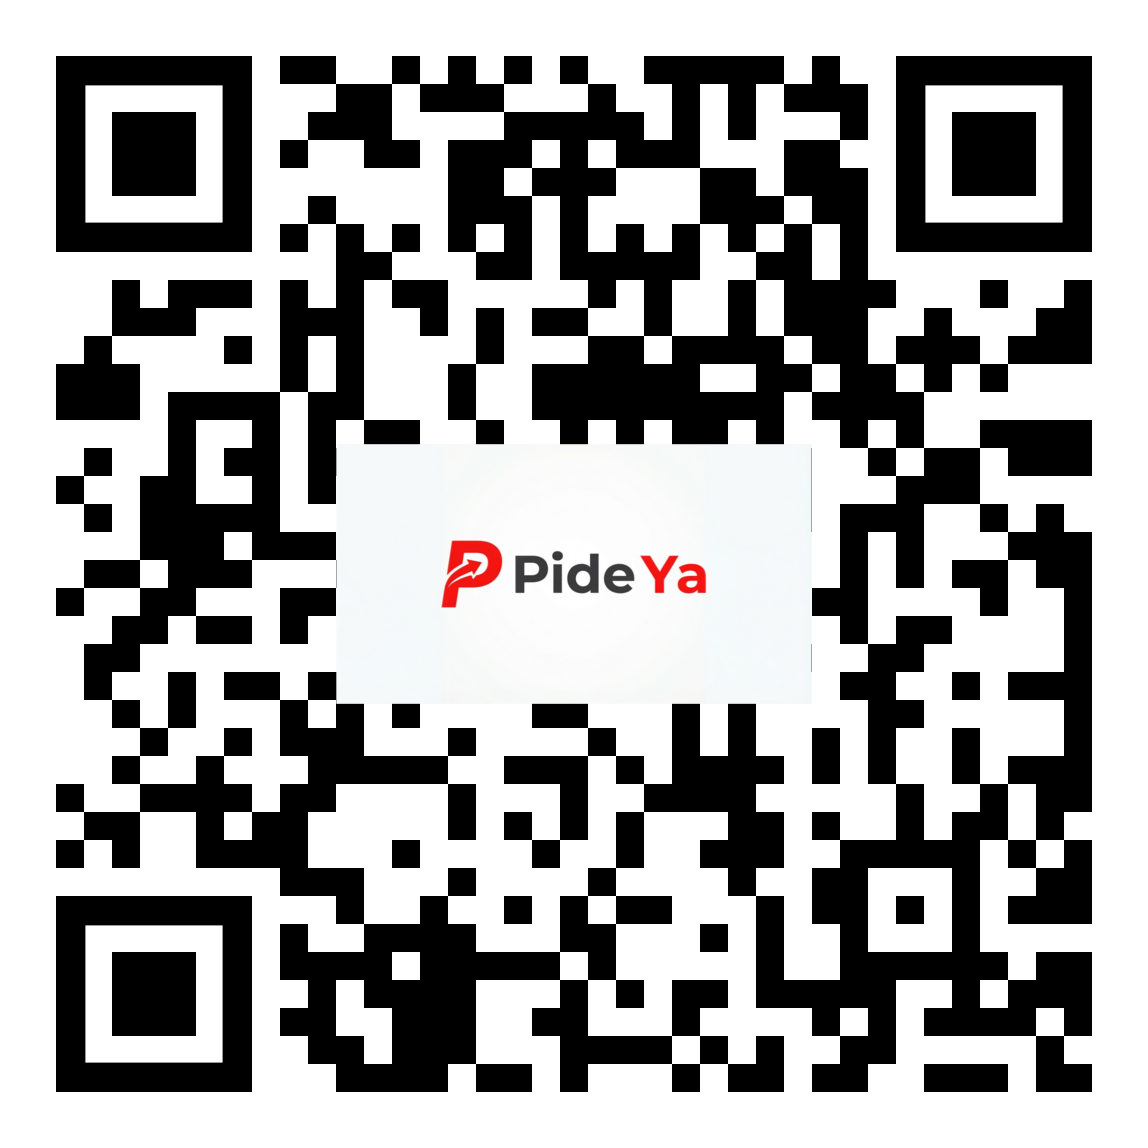
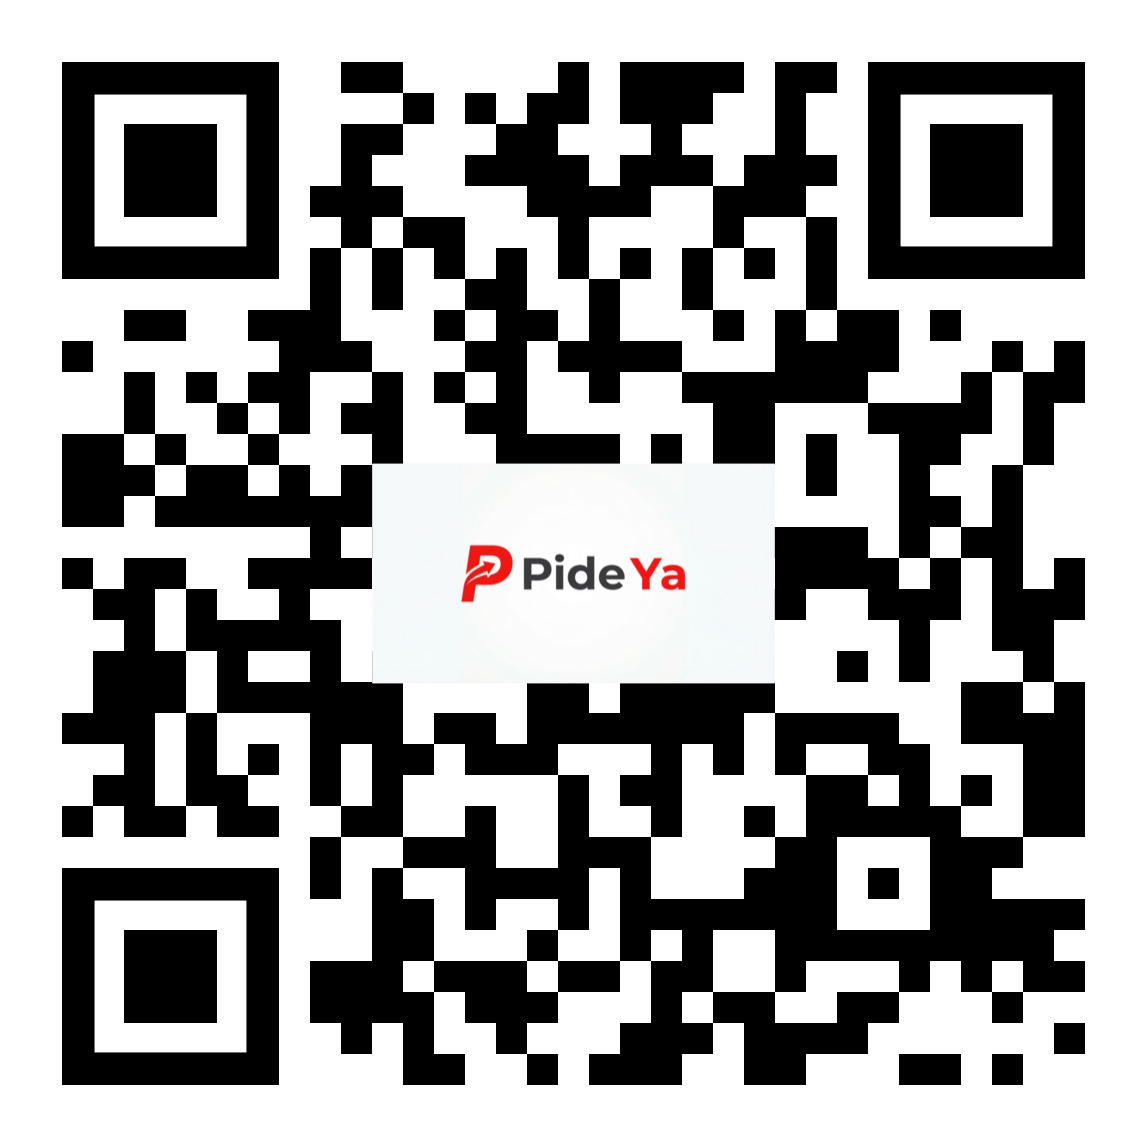
Add files via upload

diff --git a/index.html b/index.html
@@ -6,13 +6,13 @@
     
     <!-- Configuración Avanzada Open Graph (OG Share) - Conecta Card Oficial -->
     <meta property="og:type" content="website" />
-    <meta property="og:url" content="https://demo-tortas.pideya.contact/" />
+    <meta property="og:url" content="https://demo-bar.pideya.contact/" />
     <meta property="og:title" content="SPORT BAR | PIDE YA" />
-    <meta property="og:description" content="Disfruta de las mejores tortas artesanales y lonches tradicionales. Explora nuestro menú exclusivo y visítanos con tu CONECTA CARD." />
+    <meta property="og:description" content="Vive la mejor experiencia deportiva, bebidas increíbles y botanas exclusivas. Explora nuestro menú y visítanos con tu CONECTA CARD." />
     
     <!-- Infraestructura Multimedia Premium de Imagen de Portada -->
-    <meta property="og:image" content="https://demo-tortas.pideya.contact/og_lonches.jpg" />
-    <meta property="og:image:secure_url" content="https://demo-tortas.pideya.contact/og_lonches.jpg" />
+    <meta property="og:image" content="https://demo-bar.pideya.contact/og_bar.jpg" />
+    <meta property="og:image:secure_url" content="https://demo-bar.pideya.contact/og_bar.jpg" />
     <meta property="og:image:type" content="image/jpeg" />
     <meta property="og:image:width" content="1080" />
     <meta property="og:image:height" content="1920" />
